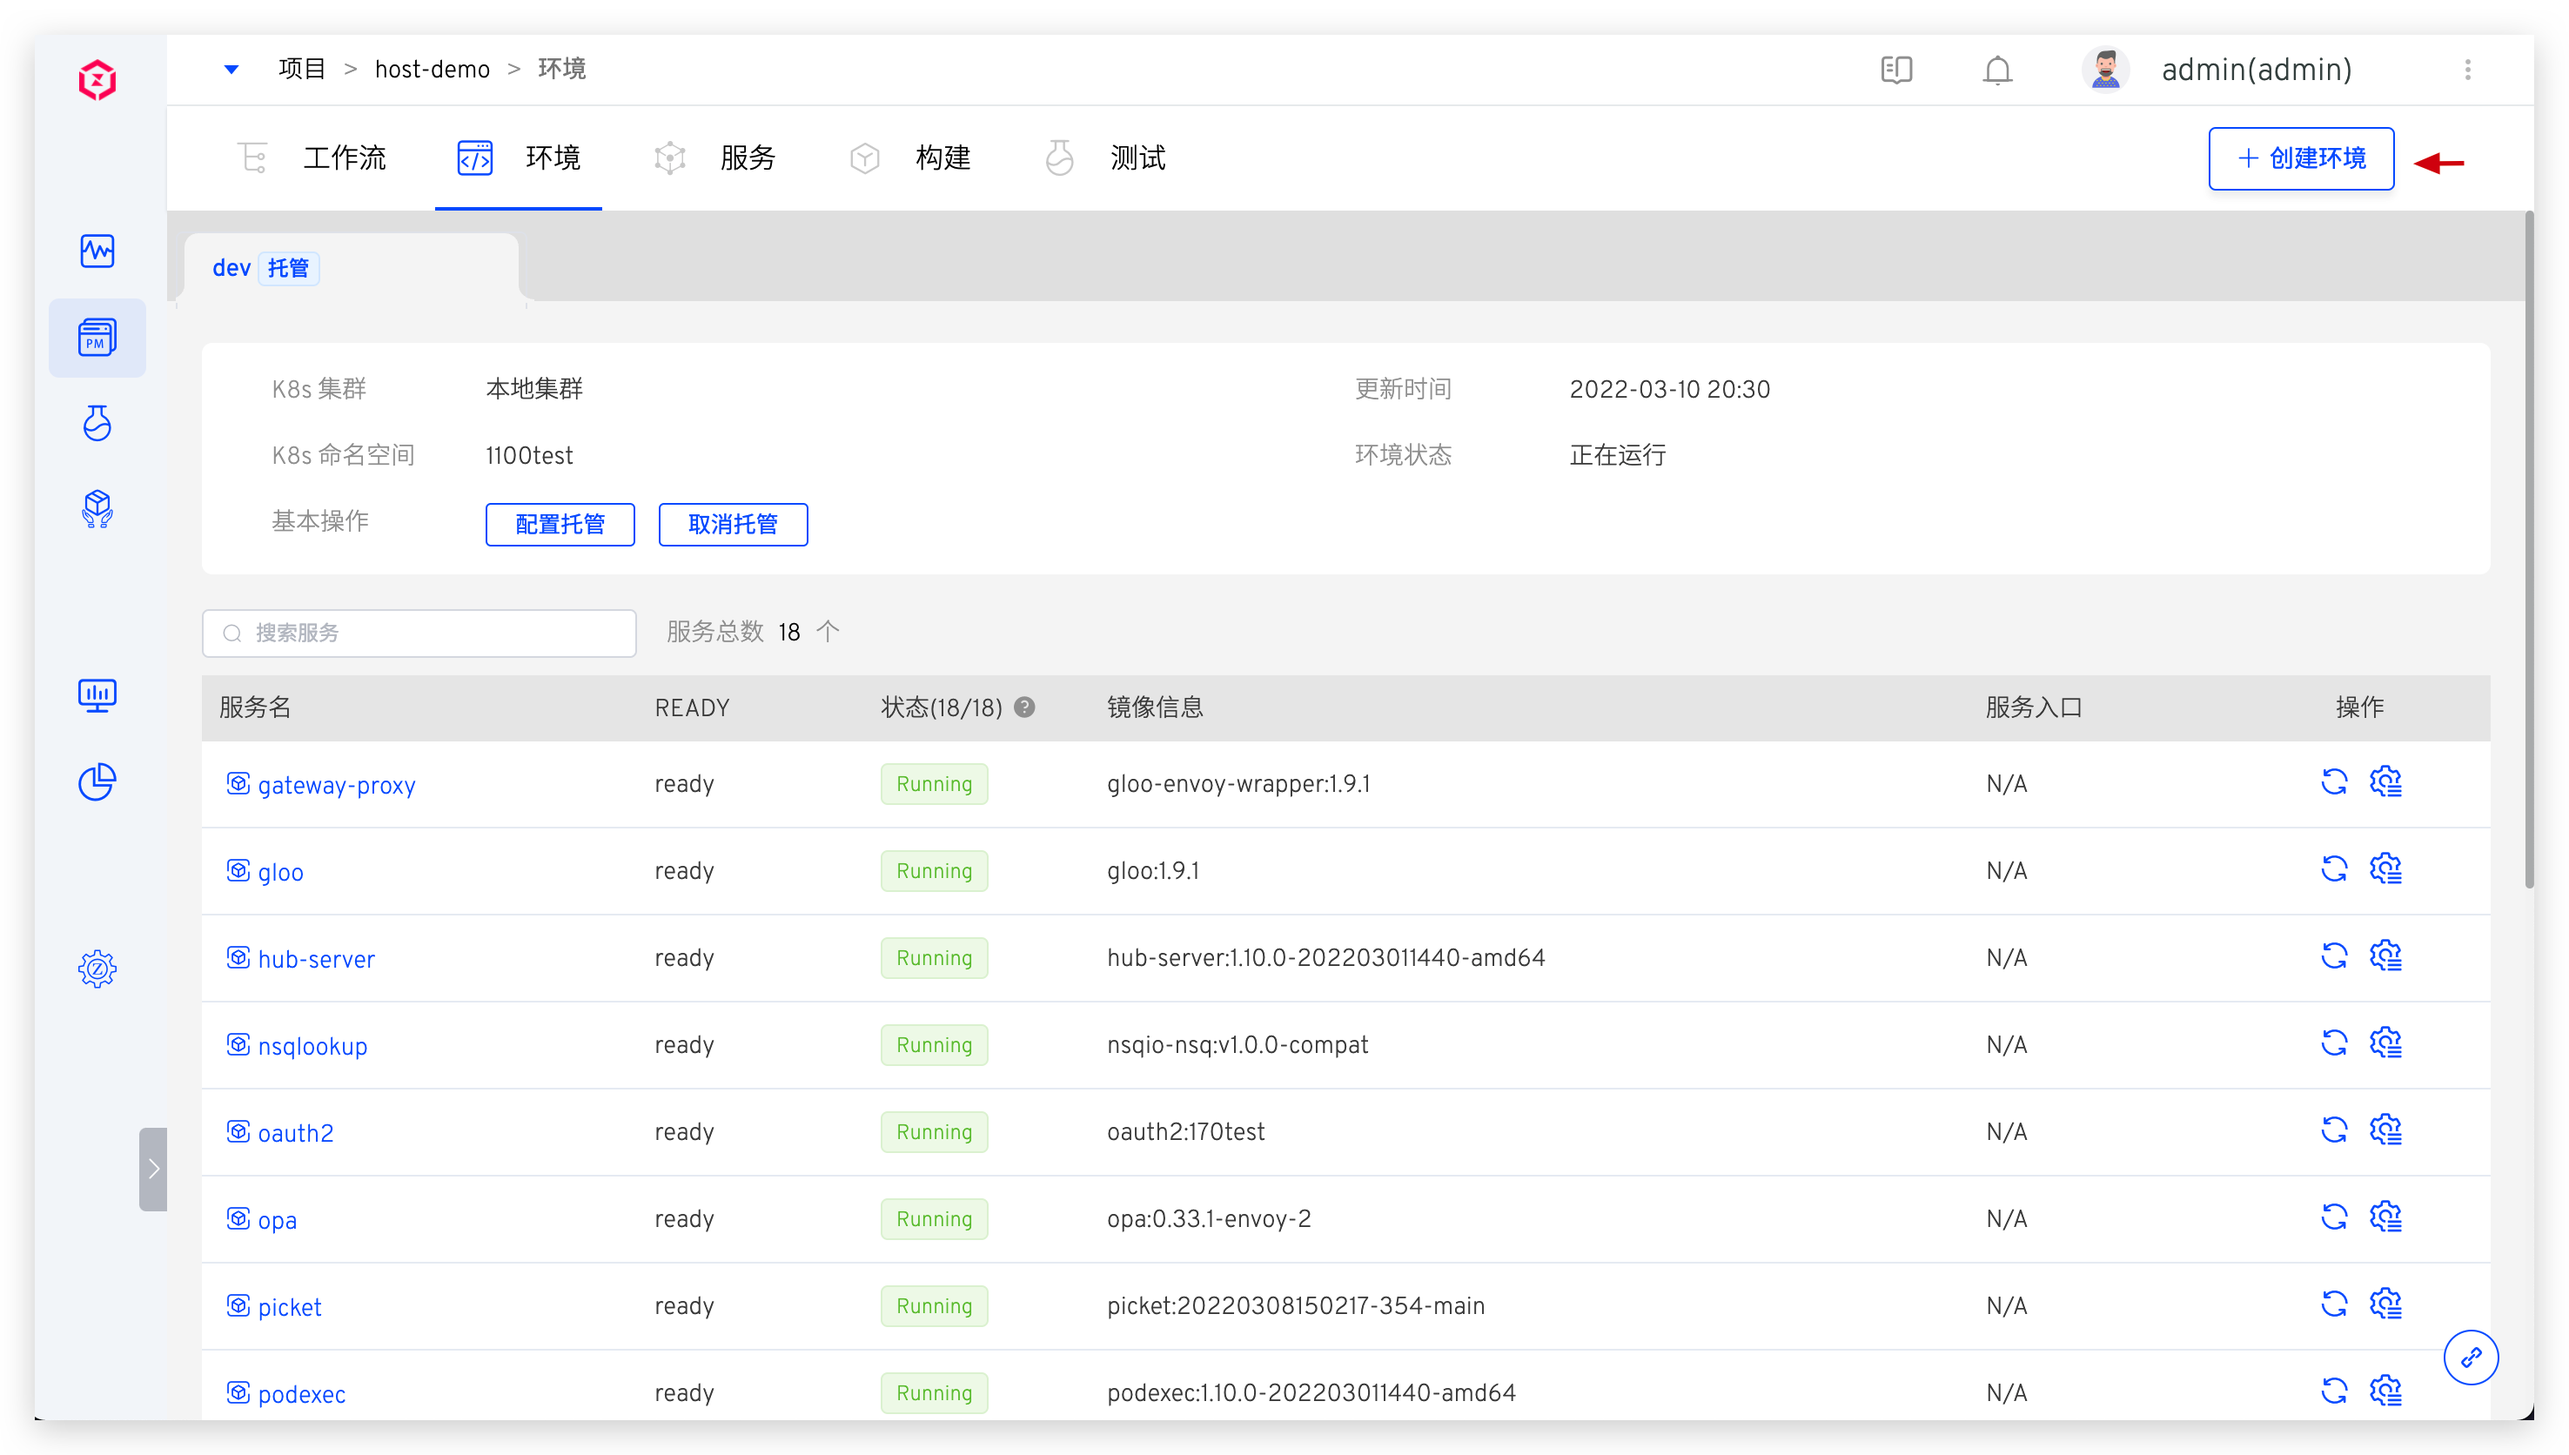
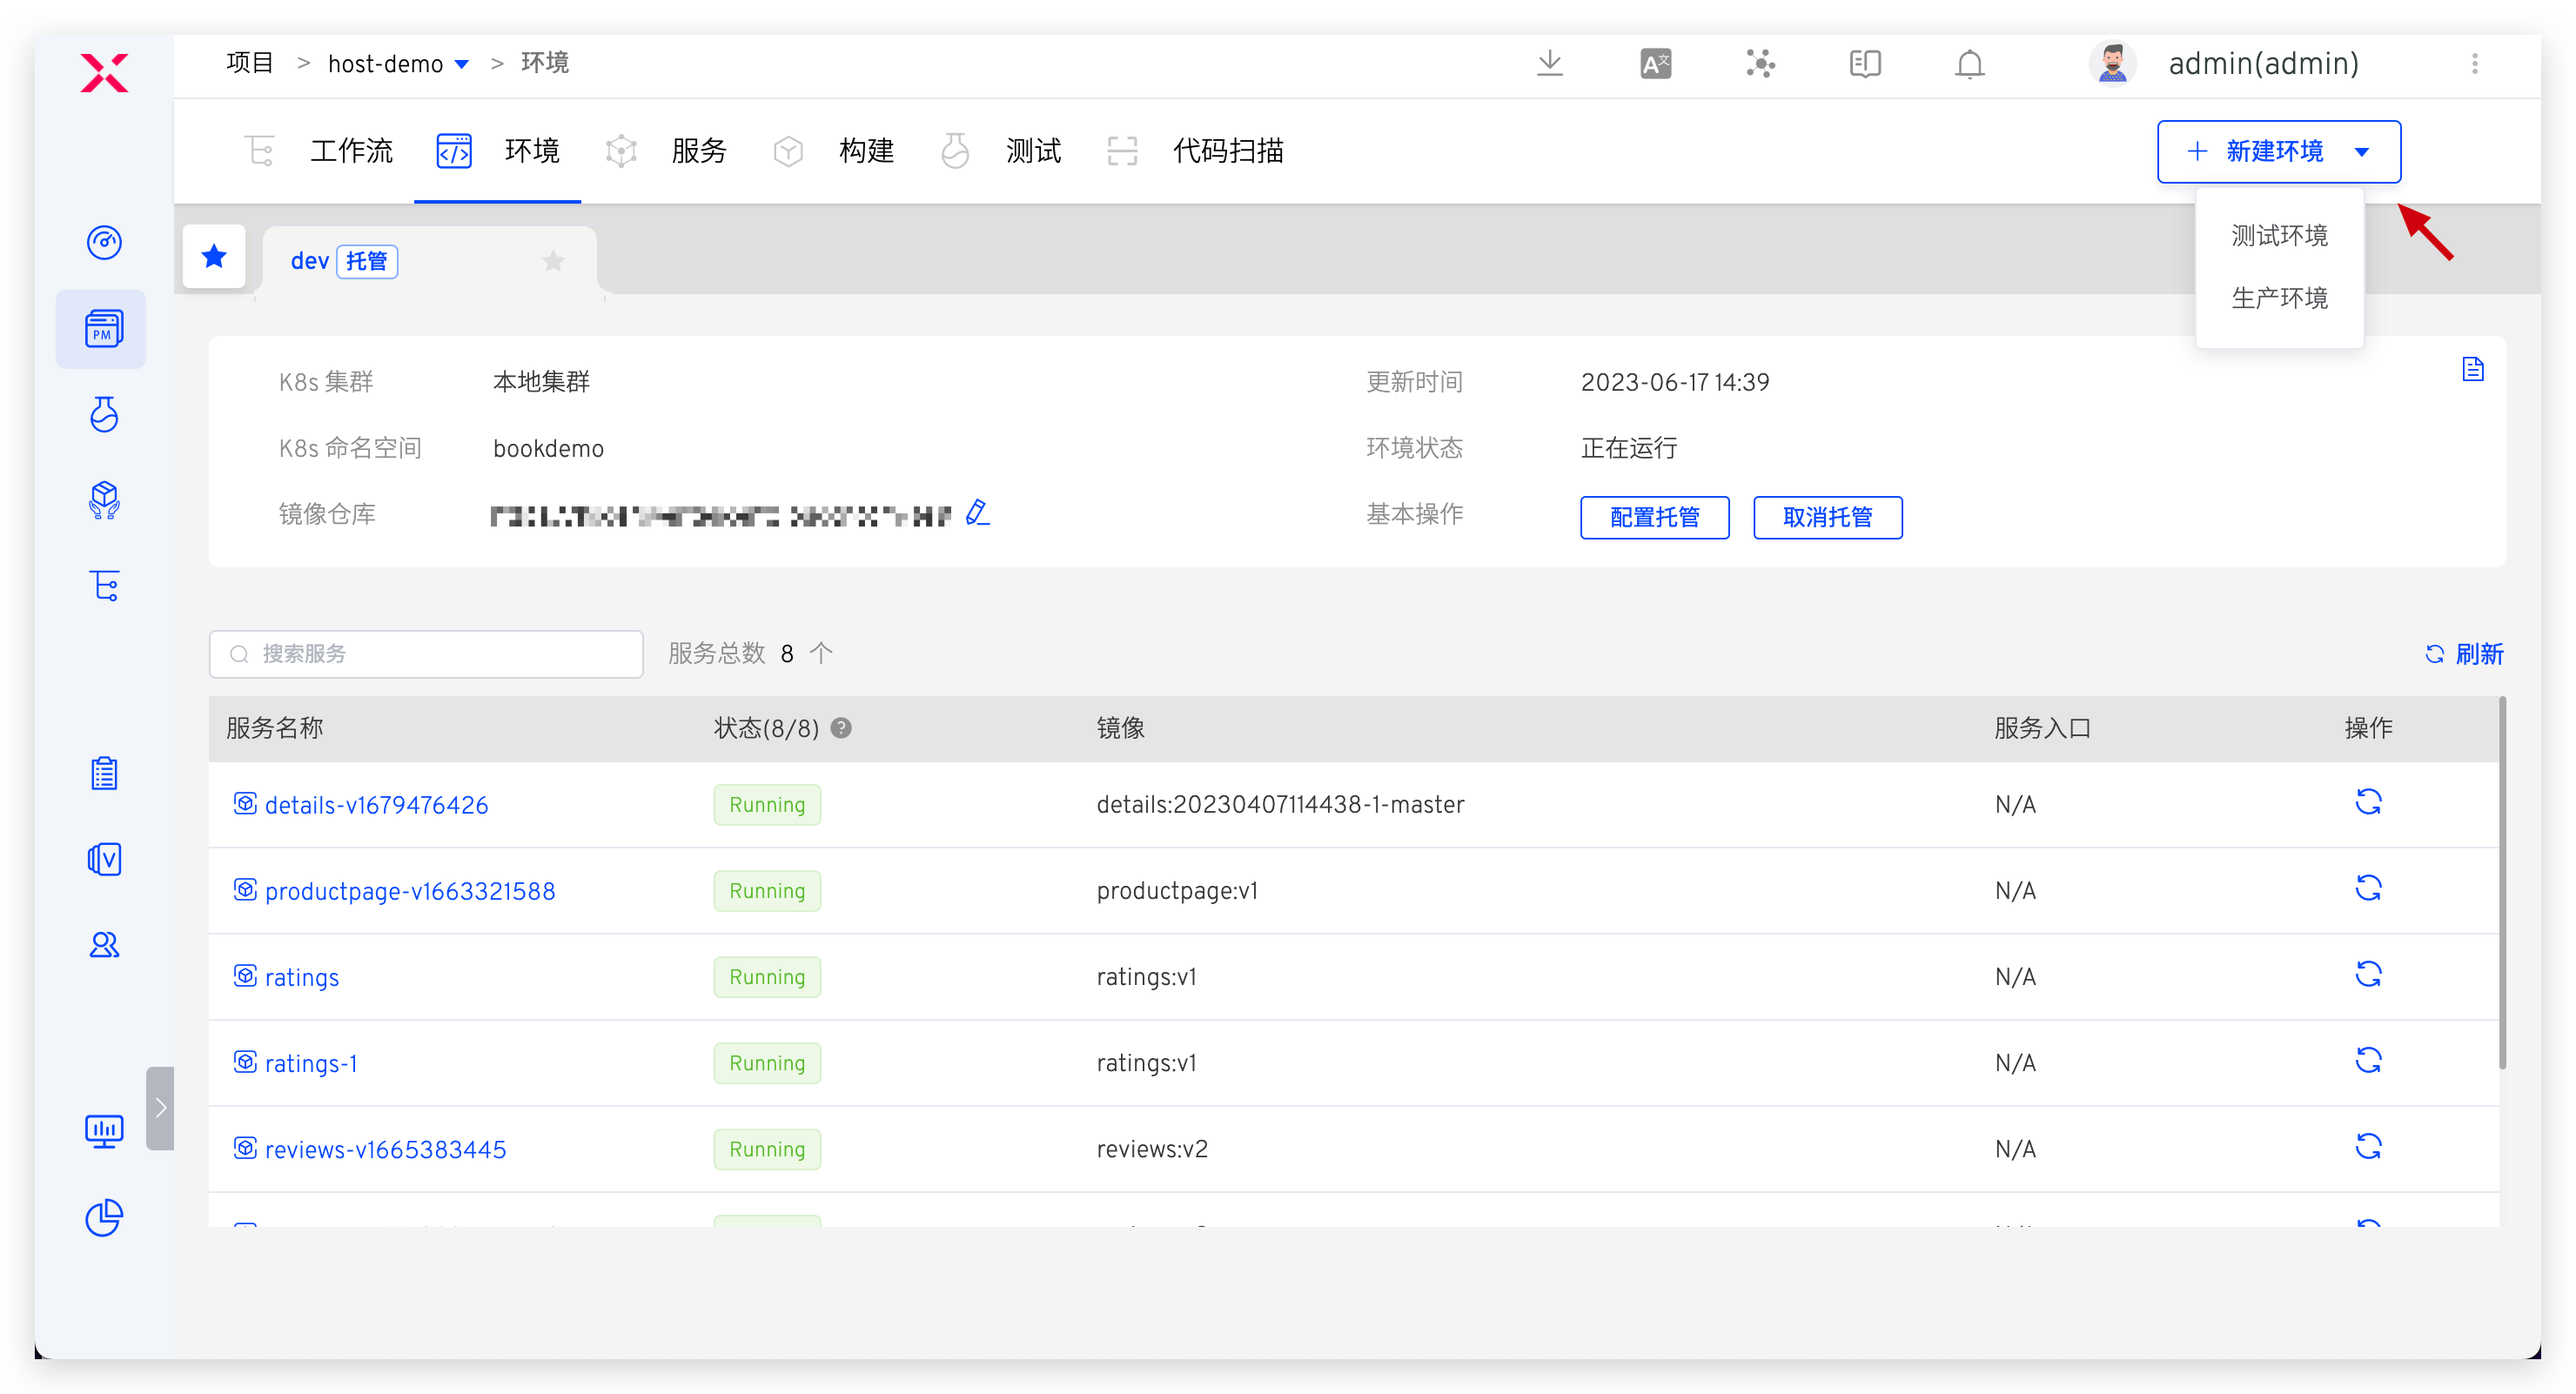
update env

diff --git a/ZadigX v1.5.0/05.功能介绍/03.环境/04.produce_environment.md b/ZadigX v1.5.0/05.功能介绍/03.环境/04.produce_environment.md
@@ -1,70 +1,44 @@
 ---
-title: 生产环境
+title: K8s Helm Chart 生产环境
 date: 2021-03-16 17:38:54
 permalink: /ZadigX v1.5.0/project/env/release/
 ---
 
-K8s YAML 项目以及 K8s Helm Chart 项目中支持生产环境功能。
-
-## 创建环境
-
-点击`创建环境`按钮，选择生产环境。
-
-![新建环境](../_images/create_env.png)
-
-![新建环境](../_images/create_env_2.png)
-
-参数说明：
-
-- `环境名称`：要创建的环境的名称，比如：`env-shanghai-ap1`、`env-shanghai-ap2`。
-- `K8s 集群`：选择创建环境时所使用的集群资源，其中`本地集群`指 ZadigX 系统所在的集群。关于集群的集成可参考[集群管理](/ZadigX%20v1.5.0/pages/cluster_manage/)。
-- `K8s 命名空间`：选择环境所使用的 K8s 命名空间，后续服务将会被部署在该命名空间中
-- `镜像仓库`：选择环境所使用的镜像仓库，后续使用工作流部署更新服务时，将会从该镜像仓库拉取镜像
-- `别名`：非必填，用户可根据自身需要设置别名。
-
-生产环境创建完毕后，即可使用自定义工作流将生产服务部署到环境中，参考[部署更新服务](#部署更新服务)。
-
-## 部署更新服务
-> 前提：生产服务的配置已经在 `项目` - `服务` - `生产服务` 中管理，参考：[K8s YAML 生产服务](/ZadigX%20v1.5.0/project/service/k8s/prod/)、[K8s Helm Chart 生产服务](/ZadigX%20v1.5.0/project/service/helm/prod/)。
-
-使用 ZadigX 的自定义工作流能力将生产服务部署更新到生产环境中，简单示例如下：
-1. 配置自定义工作流，增加部署任务，指定生产环境、生产服务对应的服务组件、部署内容选择`服务镜像`和`服务配置`。
-> 关于自定义工作流的更多使用姿势可参考：[自定义工作流](/ZadigX%20v1.5.0/project/common-workflow/)。
-
-![自定义工作流配置](../_images/prod_env_deploy_2.png)
-
-2. 执行上述自定义工作流，待工作流成功执行完毕后，服务即部署成功。
-    - 第一次执行时请勾选`使用最新变更`，确保将服务部署到生产环境中
-    - 后续若希望更新服务的镜像版本/YAML 配置文件，在执行工作流时按需选择服务镜像及服务配置后即可
-
-![部署服务](../_images/deploy_prod_service.png)
-
-![环境详情](../_images/prod_env_detail_1.png)
+本文主要介绍 K8s Helm Chart 项目中的生产环境相关操作。
 
 ## 查看环境
 
-点击不同的环境 Tab 即可切换到该环境的详情页面，点击`服务视图`即可查看该环境下的所有服务。
+环境创建完成后，点击不同的环境 Tab 即可切换到该环境的详情页面，生产环境右上角会有`生产`标识。点击`资源视图`，可从工作负载/网络/存储/配置等资源视角对该环境所在命名空间下的资源进行查看。
 
-K8s YAML 生产环境详情：
-![环境详情](../_images/prod_env_detail_1.png)
+![环境详情](../_images/show_helm_chart_prod_env.png)
 
-K8s Helm Chart 生产环境详情：
-![环境详情](../_images/helm_prod_env_detail_1.png)
+其他信息请参考测试环境中的描述：[查看环境](/ZadigX%20v1.5.0/project/env/helm/chart/#查看环境)。
 
-点击服务名称可查看服务实例详情，查看其实时日志，登录到服务容器中进行调试等。
+## 新建环境
 
-![服务详情](../_images/prod_env_service_detail.png)
+参考：[新建环境](/ZadigX%20v1.5.0/project/prod/env/k8s/#新建环境)。
 
-点击`资源视图`，可从工作负载/网络/存储/配置等资源视角对该环境所在命名空间下的资源进行查看。
+## 更新全局变量
 
-![环境详情](../_images/show_prod_env_view.png)
+对环境中的全局变量进行更新，具体操作参考测试环境中的描述：[更新全局变量](/ZadigX%20v1.5.0/project/env/helm/chart/#更新全局变量)。
+
+## 管理服务
+
+对环境中的服务进行管理，具体操作参考测试环境中的描述：[管理服务](/ZadigX%20v1.5.0/project/env/helm/chart/#管理服务)。
+
+## 环境配置管理
+
+对环境中的 Ingress、ConfigMap、Secret、PVC 配置进行管理，具体操作参考测试环境中的描述：[环境配置管理](/ZadigX%20v1.5.0/project/env/helm/chart/#环境配置管理)。
+
+## 设置别名
+
+参考：[设置别名](/ZadigX%20v1.5.0/project/prod/env/k8s/#设置别名)。
 
 ## 删除环境
 
-点击`删除环境` -> 输入环境名称后确认即可。
+点击`基本操作` -> `更多` -> `删除环境`按钮并输入环境名即可删除环境。
 
 ::: tip
-鉴于生产服务的严肃性，在 ZadigX 中删除生产环境只是将环境记录删除，K8s 集群中相关的服务实例资源并不会删除。如果需要删除集群中的资源，请在确保没有影响后手动操作。
+1. 鉴于生产服务的严肃性，在 ZadigX 中删除生产环境只是将环境记录删除，Kubernetes 集群中相关服务资源并不会删除。
+2. 如果需要删除集群中的资源，请在确保没有影响后手动操作。
 :::
-
-![删除环境](../_images/delete_prod_env.png)

diff --git a/ZadigX v1.5.0/05.功能介绍/03.环境/05.host_environment.md b/ZadigX v1.5.0/05.功能介绍/03.环境/05.host_environment.md
@@ -6,8 +6,9 @@ permalink: /ZadigX v1.5.0/project/env/k8s/host/
 
 本文主要介绍 K8s 托管项目中的环境相关操作。
 
-## 创建环境
-在 K8s 托管项目中点击`创建环境`按钮进入创建环境页面，填写相关参数后立即创建即可。
+## 新建测试环境
+
+在 K8s 托管项目中点击`新建环境`按钮进入创建环境页面，填写相关参数后立即创建即可。
 
 ![创建托管环境](../_images/create_host_env.png)
 ![创建托管环境](../_images/create_host_env_1.png)
@@ -15,11 +16,11 @@ permalink: /ZadigX v1.5.0/project/env/k8s/host/
 参数说明：
 
 - `环境名称`：填写环境名称
-- `K8s 集群`：要被托管的服务所在的 K8s 集群，注意：该集群需事先在 ZadigX 中集成，可参考[集群管理](/ZadigX%20v1.5.0/pages/cluster_manage)操作
-- `K8s 命名空间`：要被托管的服务所在的 K8s 命名空间
+- `K8s 集群`：要被托管的服务所在的 Kubernetes 集群，注意：该集群需事先在 ZadigX 中集成，可参考[集群管理](/ZadigX%20v1.5.0/pages/cluster_manage)操作
+- `K8s 命名空间`：要被托管的服务所在的 Kubernetes 命名空间
 - `选择服务`：要被托管的服务
 
-## 查看环境
+## 查看测试环境
 
 点击不同的环境 Tab 即可查看该环境及环境中被托管服务的详情。
 
@@ -53,10 +54,33 @@ permalink: /ZadigX v1.5.0/project/env/k8s/host/
 
 ## 配置托管
 
+> 为测试环境配置托管服务
+
 点击基本操作中的`配置托管`，对当前环境下被托管的服务进行管理，按需添加或移除：
 
 ![配置托管环境](../_images/config_host_env.png)
 
 ## 取消托管
 
-点击基本操作中的`取消托管`，可取消对当前环境中服务的托管。
+> 为测试环境取消托管
+
+点击基本操作中的`取消托管`，可取消对当前环境中服务的托管，取消后环境将被删除。
+
+## 生产环境
+
+### 新建生产环境
+
+点击`新建环境`，选择`生产环境`，填写相关参数后立即创建即可。
+
+![创建托管环境](../_images/create_host_env.png)
+
+参数说明可参考：xxx
+
+### 查看生产环境
+
+1. 生产环境所在的 Tab 中会有`生产`标识。
+2. 环境的基本信息中包含环境所在的 Kubernetes 集群、命名空间、所使用的镜像仓库。
+2. 可以为环境设置别名，用于在环境 Tab 中显示。
+3. 可从工作负载/网络/存储/配置等资源视角对该环境所在命名空间下的资源进行查看。
+
+![创建托管环境](../_images/show_host_prod_env.png)

diff --git a/ZadigX v1.5.0/05.功能介绍/03.环境/02.k8s_prod_environment.md b/ZadigX v1.5.0/05.功能介绍/03.环境/02.k8s_prod_environment.md
@@ -44,7 +44,13 @@ permalink: /ZadigX v1.5.0/project/prod/env/k8s/
 
 ## 环境配置管理
 
-环境中的 Ingress、ConfigMap、Secret、PVC 配置进行管理，具体操作参考测试环境中的描述：[环境配置管理](/ZadigX%20v1.5.0/project/env/k8s/#环境配置管理)。
+对环境中的 Ingress、ConfigMap、Secret、PVC 配置进行管理，具体操作参考测试环境中的描述：[环境配置管理](/ZadigX%20v1.5.0/project/env/k8s/#环境配置管理)。
+
+## 设置别名
+
+点击`基本操作` -> `更多` -> `设置别名`按钮并输入新的名称后即可为环境设置别名并在 Tab 中展示。
+
+![设置别名](../_images/prod_env_alias_demo.png)
 
 ## 删除环境
 
